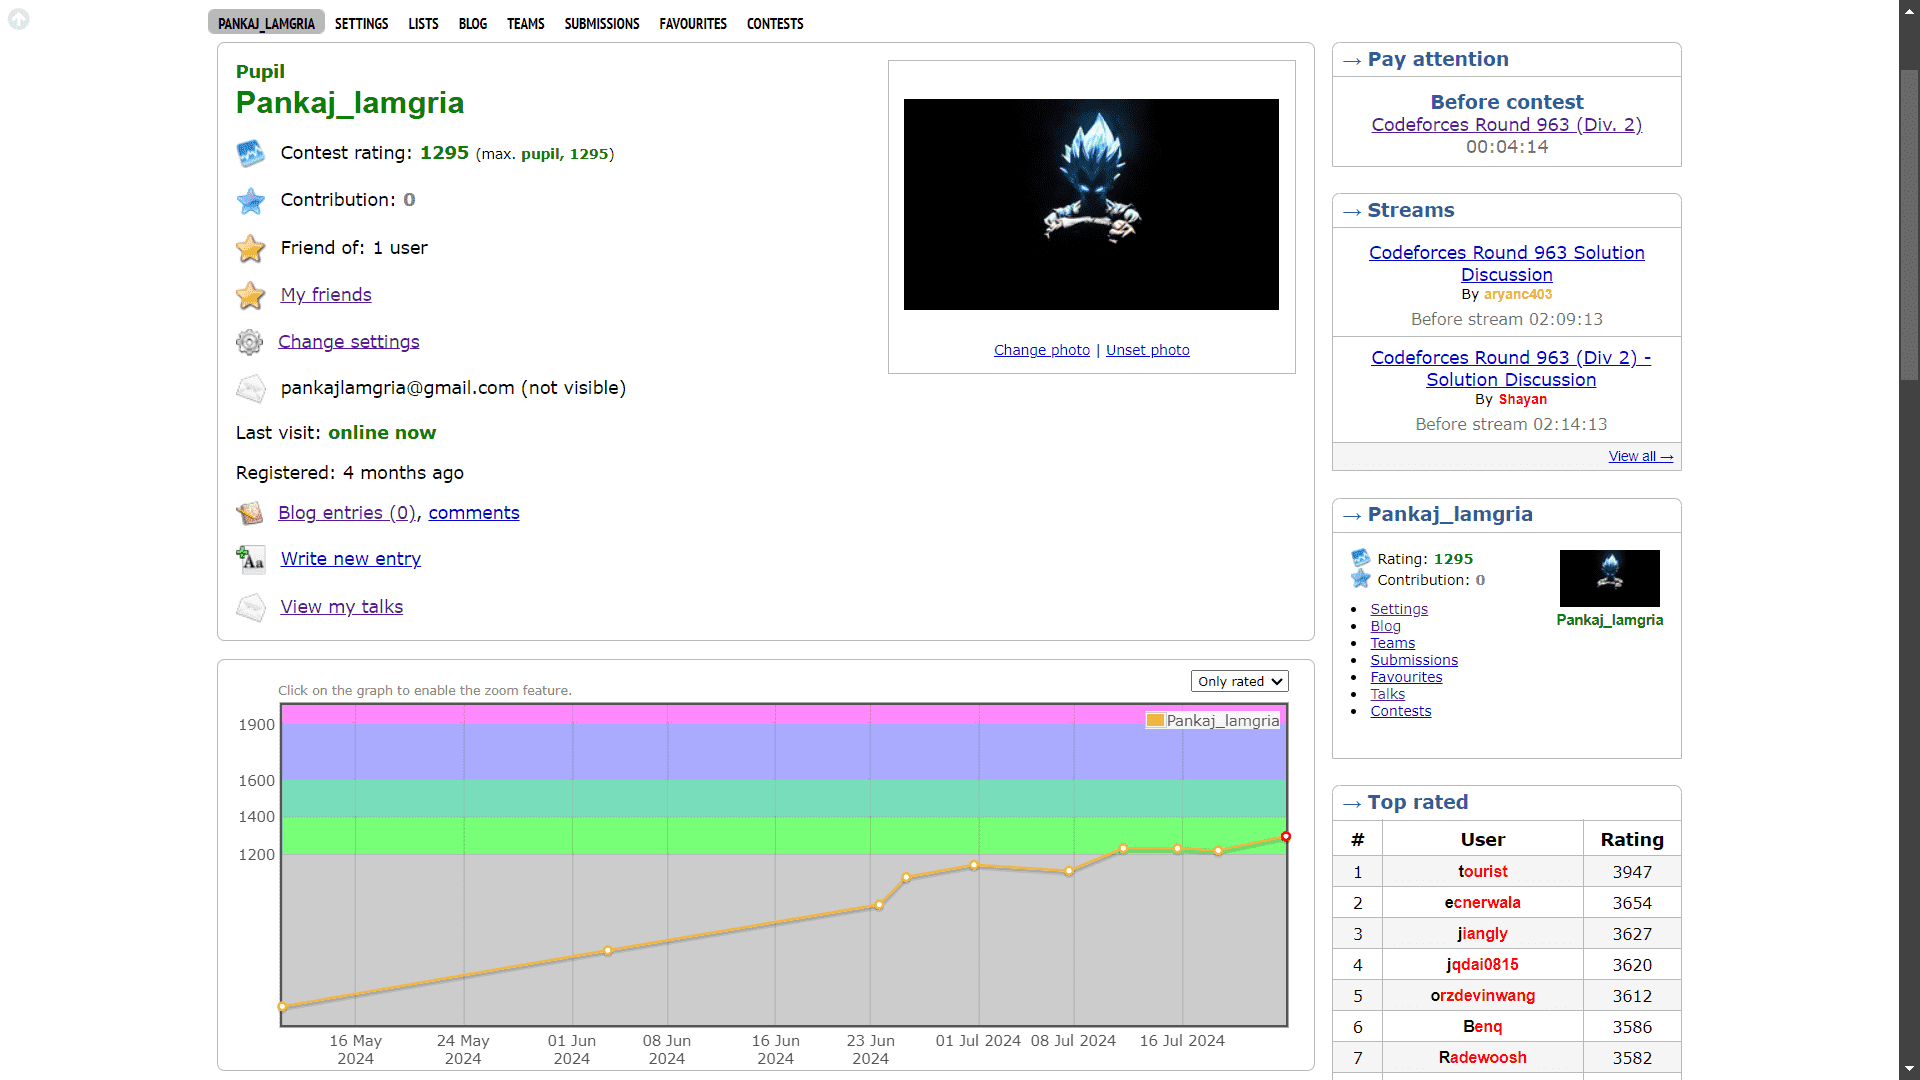
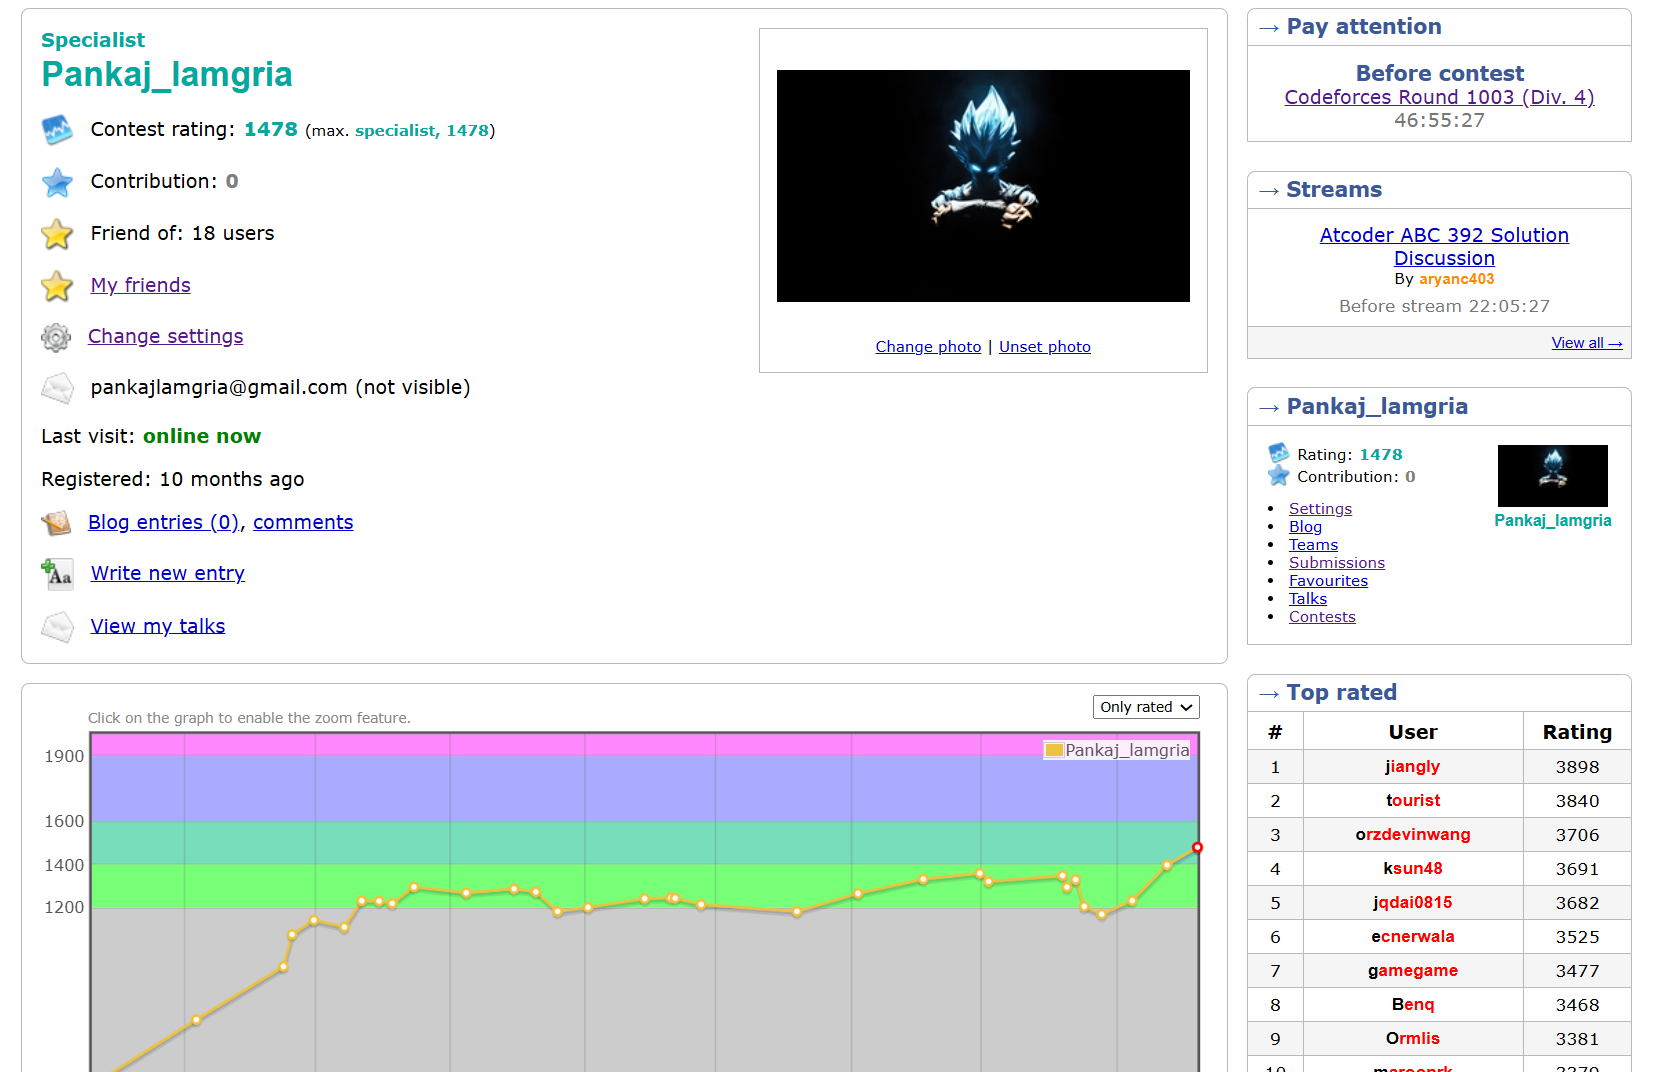
Updated contest rating

Changed region(s): [[0.0, 0.0, 1.0, 1.0], [0.0936, 0.0, 0.437, 0.0308]]

diff --git a/myportfolio/src/components/Home.js b/myportfolio/src/components/Home.js
@@ -84,7 +84,7 @@ const Home = () => {
               <div className="text-green-500 mx-1 ">
                 <GoDotFill />
               </div>
-              <div className="animate-movetop relative w-96 text-md h-6 leading-10"><h2> Avialable for Work  Avialable for Work Avialable for Work Avialable for Work</h2></div> 
+              <div className="animate-movetop relative w-96 text-md h-6 leading-10"><h2> Available for Work  Available for Work Available for Work Available for Work</h2></div> 
             </div>
           </ul>
         </div>
@@ -882,8 +882,8 @@ const Home = () => {
                 Leetcode
               </p>
               <p className="text-lg text-center mt-8">
-                ⚔ Knight on LeetCode with a maximum rating exceeding 2000,
-                having solved over 900 problems. 💡
+                ⚔ Knight on LeetCode with a maximum rating exceeding 2100,
+                having solved over 1100 problems. 💡
               </p>
             </div>
           </div>
@@ -908,7 +908,7 @@ const Home = () => {
                 Codeforces
               </p>
               <p className="text-lg text-center mt-8">
-              🧠 Pupil on Codeforces with a maximum rating of 1295. 🌟
+              🧠 Specialist on Codeforces with a maximum rating of 1478. 🌟
               </p>
             </div>
           </div>
@@ -932,7 +932,7 @@ const Home = () => {
                 Codechef
               </p>
               <p className="text-lg text-center mt-8">
-              🌟 3-star coder on CodeChef with a maximum rating of 1653. 🍴
+              🌟 4-star coder on CodeChef with a maximum rating of 1828. 🍴
               </p>
             </div>
           </div>
